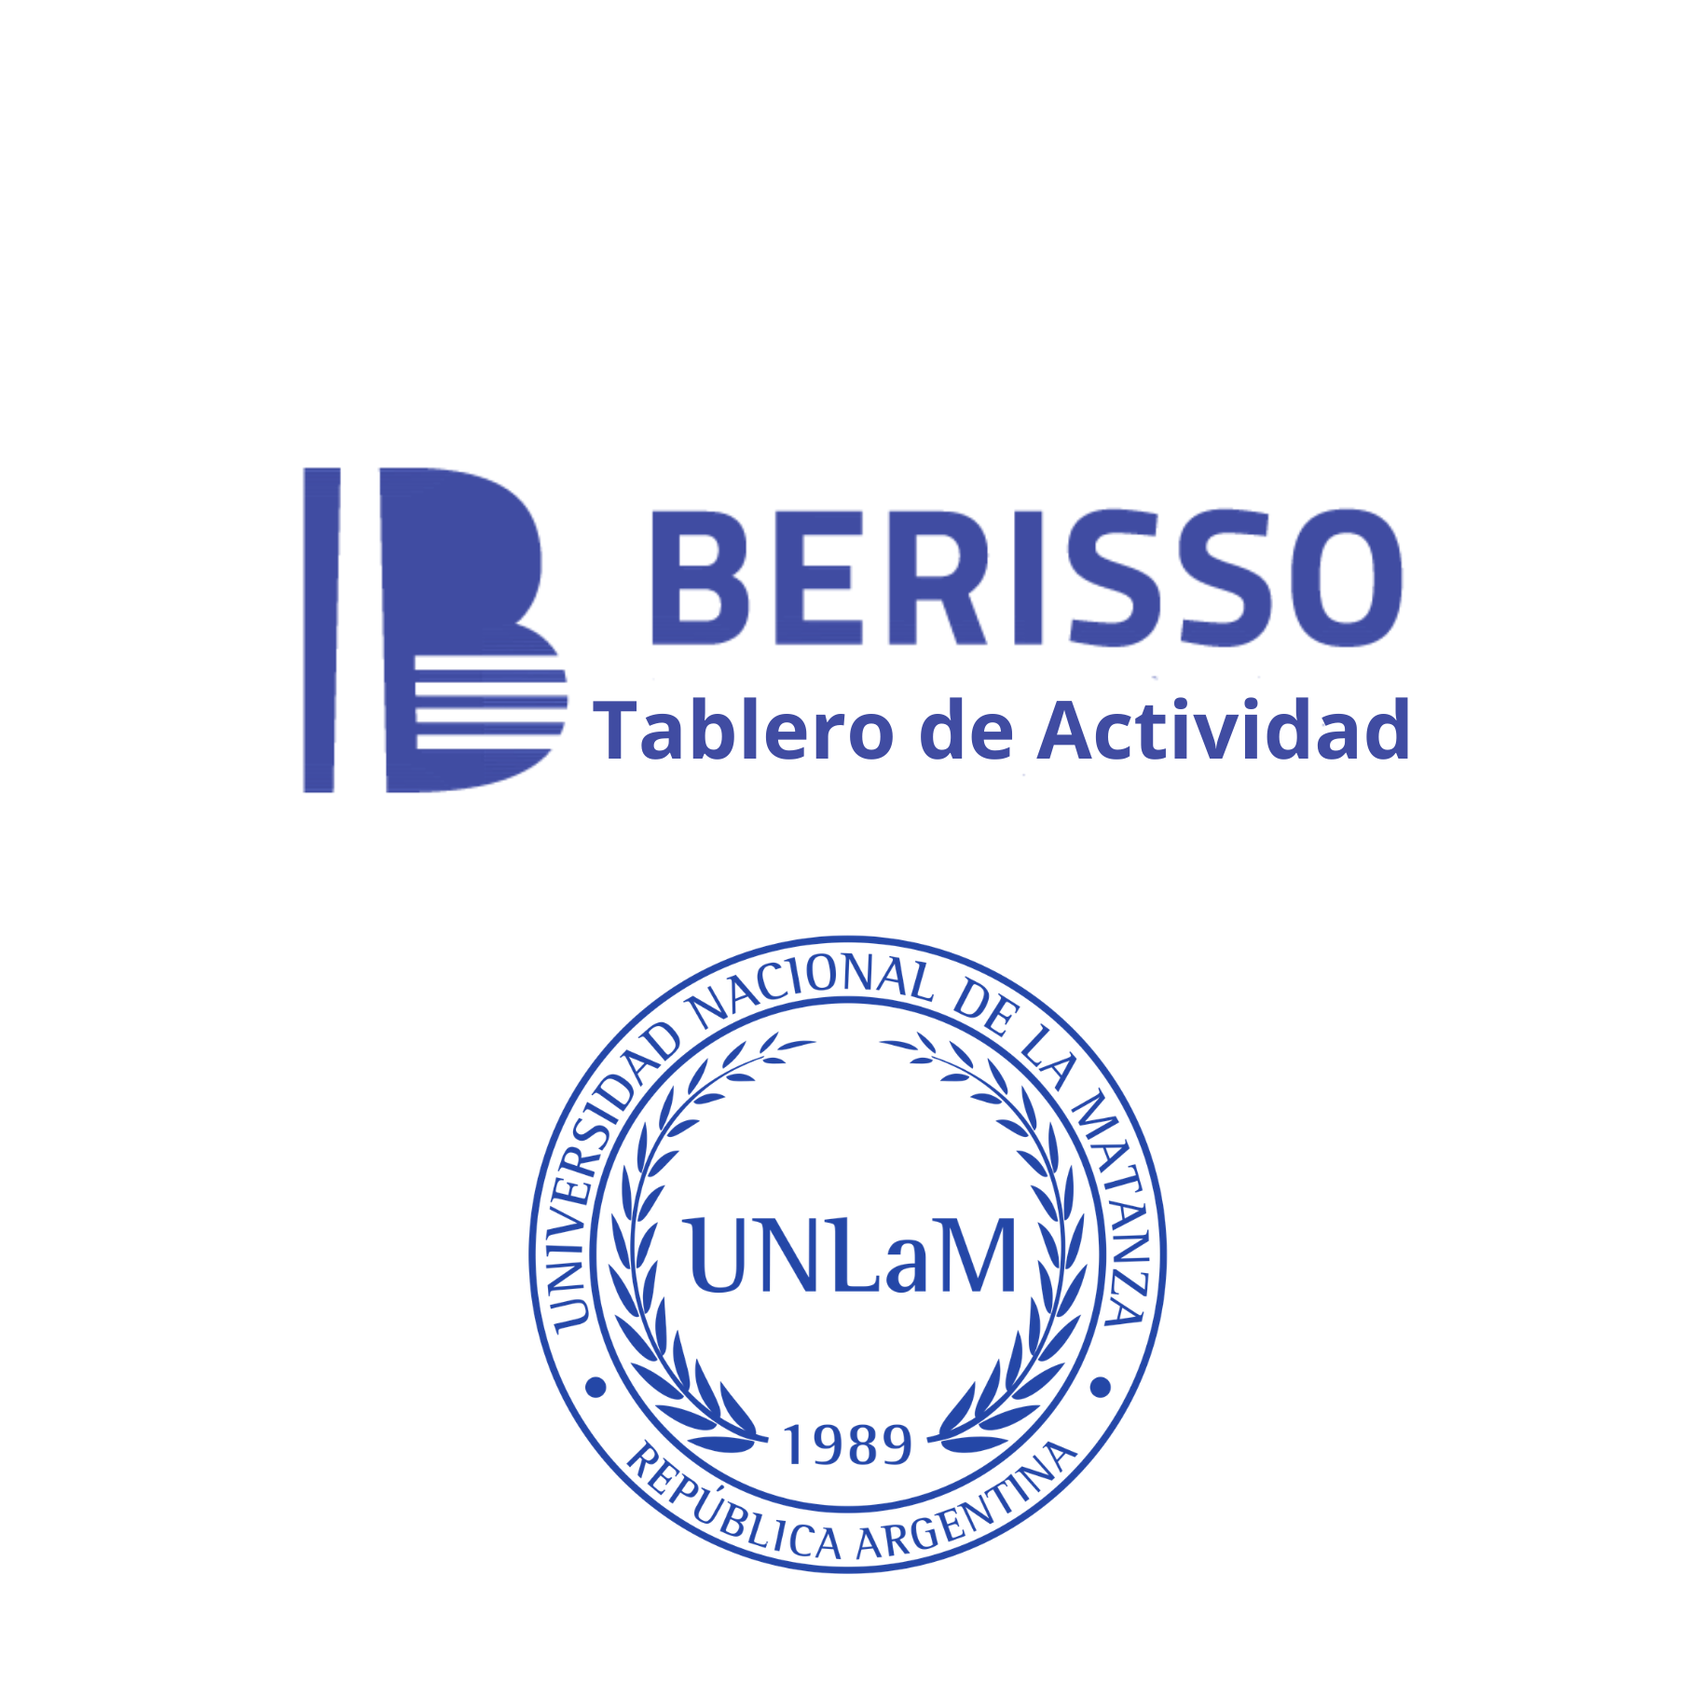
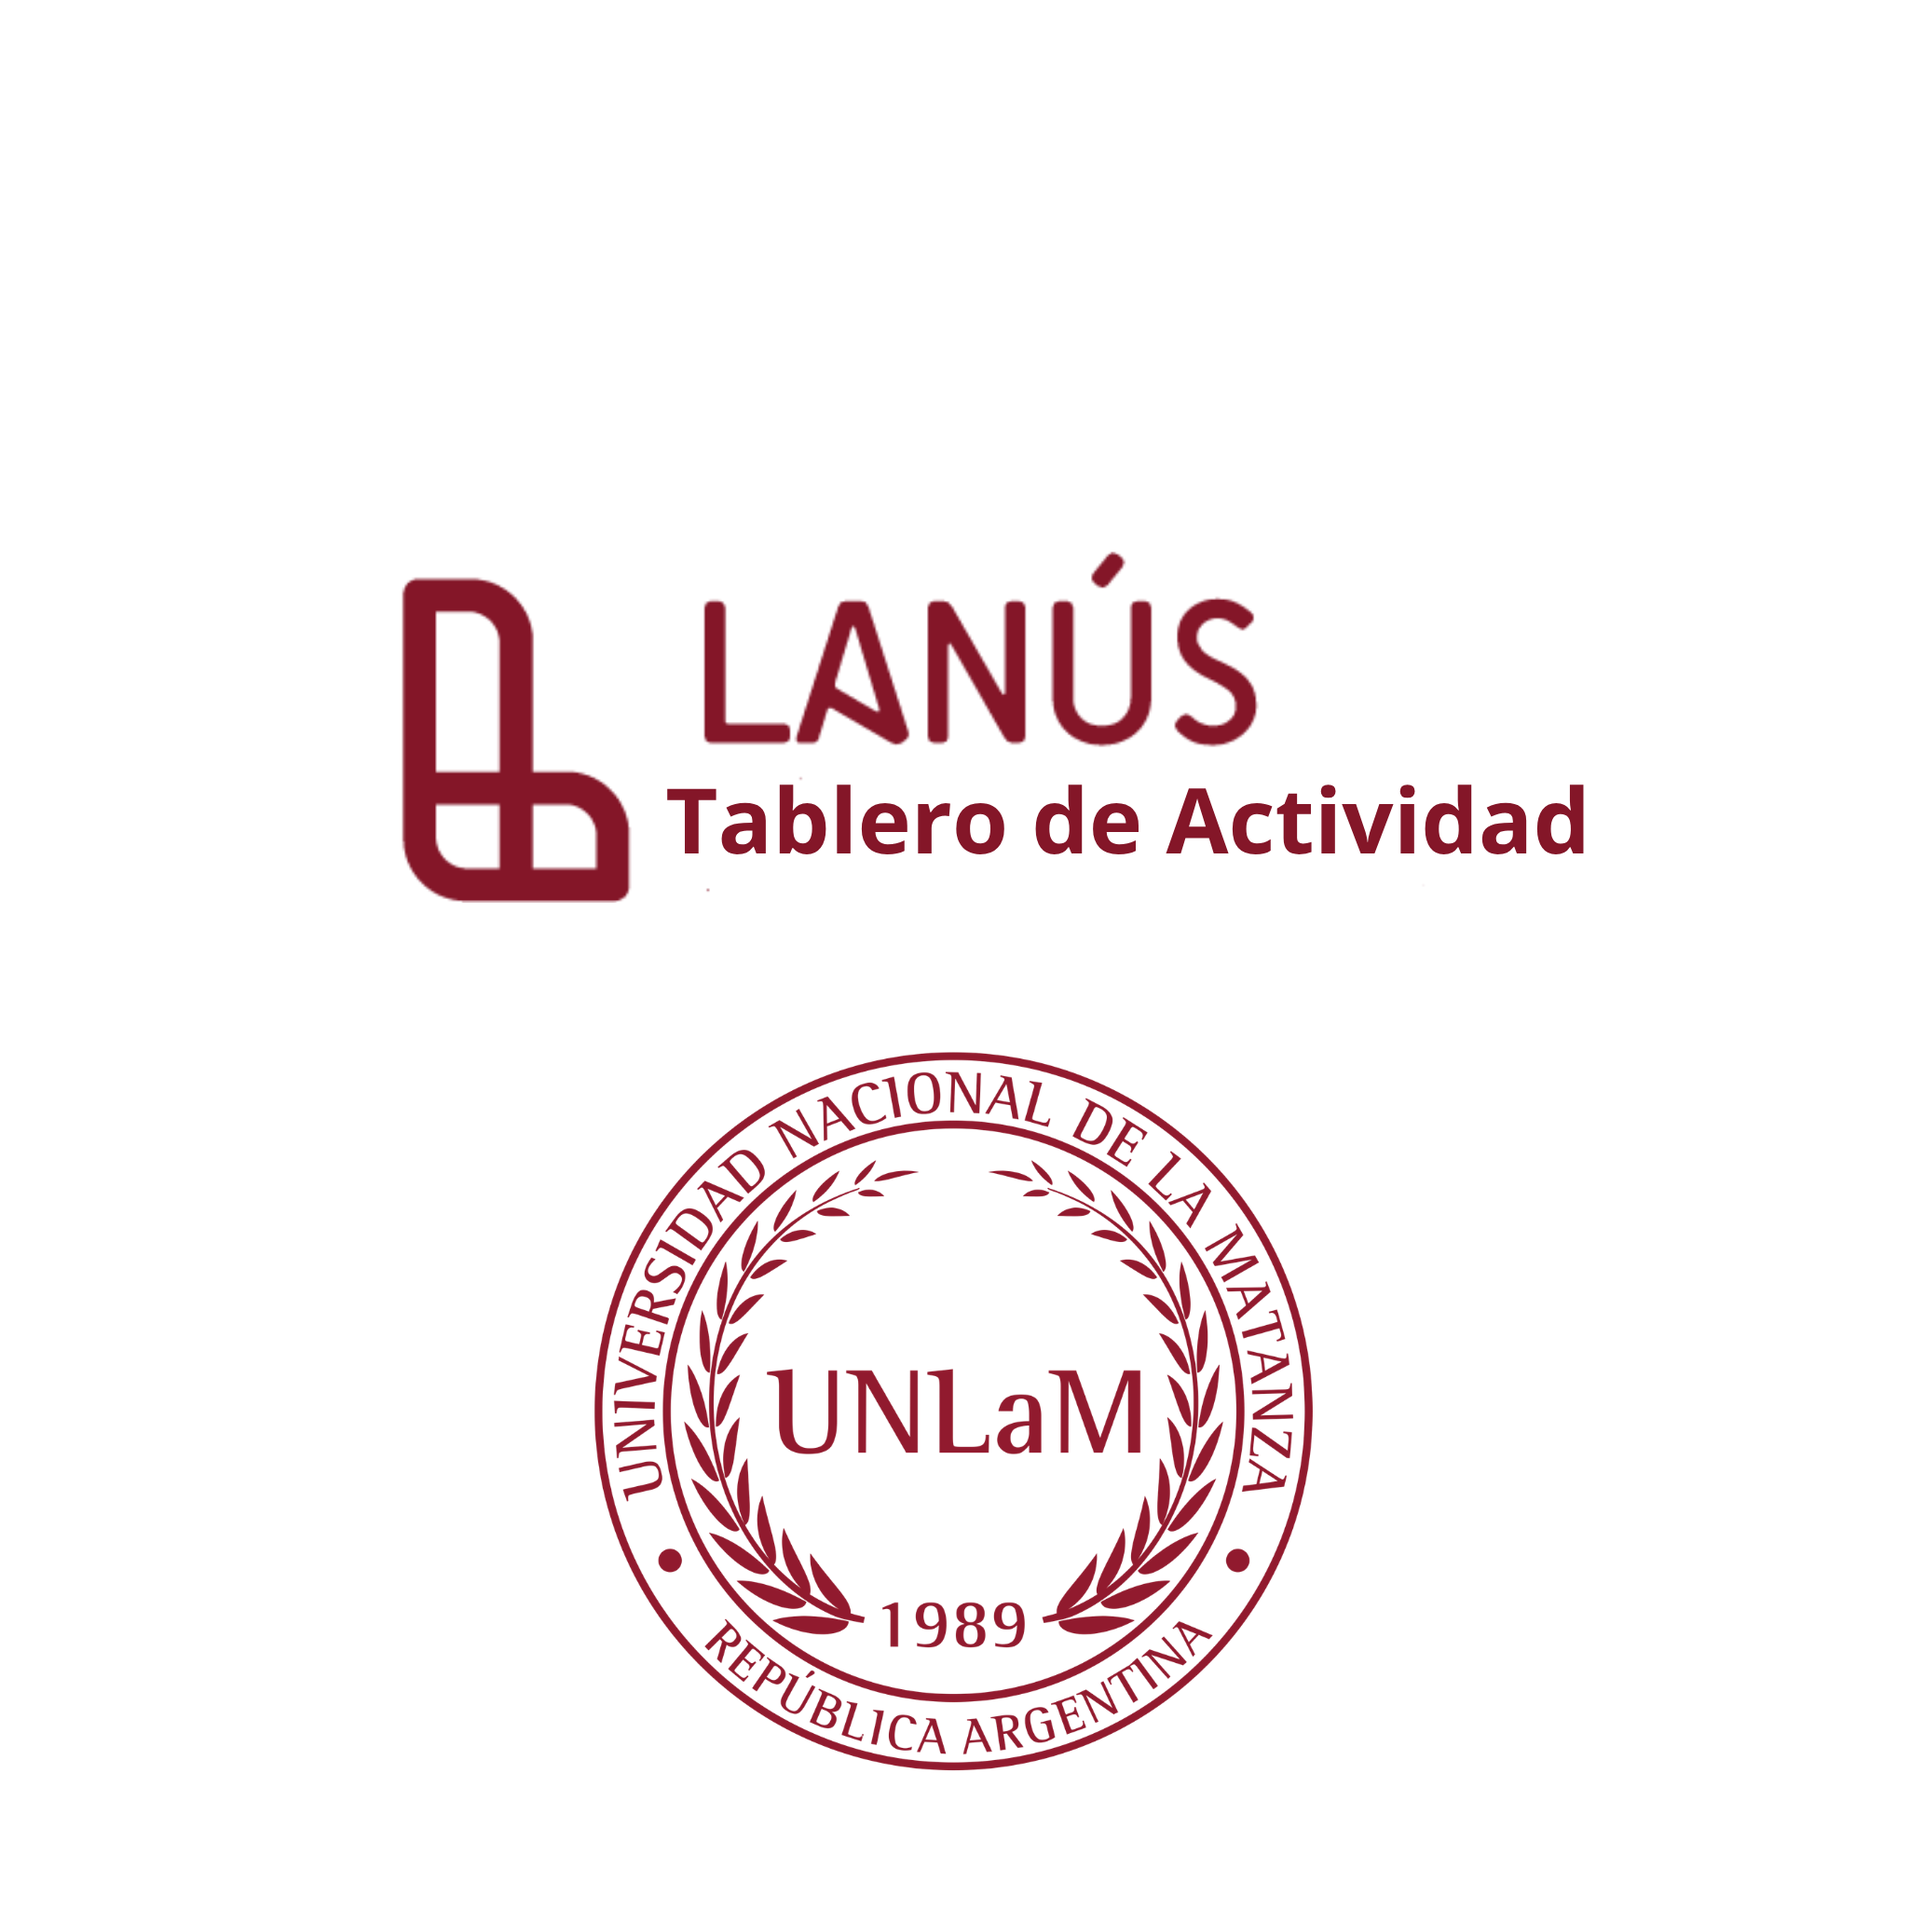
Add: Notifications view on notifications.py

Changed region(s): [[0.1537, 0.2766, 0.8299, 0.4918], [0.3074, 0.5532, 0.7069, 0.9528]]

diff --git a/Styles/estilo_login.css b/Styles/estilo_login.css
@@ -26,7 +26,7 @@
 }
 
 /*borde del form login*/
-.st-emotion-cache-1m6fbqn {
+.st-emotion-cache-1pppqcq {
     border: 1px solid rgb(0 0 0 / 0%);
     border-radius: 0.5rem;
     padding: calc(-1px + 1rem);

diff --git a/Displays/notifications.py b/Displays/notifications.py
@@ -1,0 +1,105 @@
+import streamlit as st
+from streamlit_extras.metric_cards import style_metric_cards
+from datetime import date
+import pandas as pd
+from ExtraFunctions.extras import payed_notifications
+from Plots.get_plot import daily_notifications_plot
+from Styles.estilos import aplicar_estilo_dashboard
+
+
+def mostrar_pagina_lotes(notifications_dataframe, payments_dataframe):
+    aplicar_estilo_dashboard()
+
+    # Asegurar formato datetime
+    notifications_dataframe["Fecha Lote"] = pd.to_datetime(
+        notifications_dataframe["Fecha Lote"],
+        errors="coerce"
+    )
+
+    # Obtener mes actual
+    hoy = date.today()
+
+    primer_dia_mes = hoy.replace(day=1)
+    ultimo_dia_disponible = (
+        notifications_dataframe["Fecha Lote"]
+        .max()
+        .date()
+    )
+
+    cola, colb, colc, cold = st.columns([1, 1, 11, 2])
+    with cold:
+        vista_elegida = st.selectbox(":material/view_kanban: **Vista**", options=["Indicadores", "Tablas"], index=0)
+    with cola:
+        fecha_desde = st.date_input(
+            ":material/calendar_month: **Fecha Desde**",
+            value=primer_dia_mes,
+            min_value=notifications_dataframe["Fecha Lote"].min().date(),
+            max_value=ultimo_dia_disponible,
+            format="DD/MM/YYYY"
+
+        )
+
+    with colb:
+        fecha_hasta = st.date_input(
+            ":material/calendar_month: **Fecha Hasta**",
+            value=min(hoy, ultimo_dia_disponible),
+            min_value=fecha_desde,
+            max_value=ultimo_dia_disponible,
+            format="DD/MM/YYYY"
+        )
+
+    lotes_filtrado = notifications_dataframe[
+        (
+                notifications_dataframe["Fecha Lote"].dt.date >= fecha_desde
+        )
+        &
+        (
+                notifications_dataframe["Fecha Lote"].dt.date <= fecha_hasta
+        )
+        ]
+    with colc:
+        localidad_elegida = st.multiselect(":material/location_on: **Elija una Localidad**",
+                                           options=lotes_filtrado["localidad"].unique(),
+                                           default="CABA")
+    lotes_filtrado = lotes_filtrado[
+        lotes_filtrado["localidad"].isin(localidad_elegida)] if localidad_elegida else lotes_filtrado
+
+    metrica_1, metrica_2, metrica_3, metrica_4 = st.columns(4)
+    metrica_1.metric(
+        f"**Total de Actas notificadas** del {fecha_desde.strftime("%d/%m/%Y")} al {fecha_hasta.strftime("%d/%m/%Y")}",
+        value=f":red[:material/stacked_email:] {lotes_filtrado["acta_id"].nunique()}", delta=f"{100}")
+    metrica_2.metric(f"**Por Email** del {fecha_desde.strftime("%d/%m/%Y")} al {fecha_hasta.strftime("%d/%m/%Y")}",
+                     value=f":red[:material/attach_email:] {1}",
+                     delta=f"{100}")
+    metrica_3.metric(f"**Bajo Puerta** del {fecha_desde.strftime("%d/%m/%Y")} al {fecha_hasta.strftime("%d/%m/%Y")}",
+                     value=f":red[:material/garage_door:] {0}",
+                     delta=f"{-100}")
+    metrica_4.metric(
+        f"**Total de Actas pagadas** del {fecha_desde.strftime("%d/%m/%Y")} al {fecha_hasta.strftime("%d/%m/%Y")}",
+        value=f":green[:material/paid:] {payed_notifications(lotes_filtrado, payments_dataframe)['acta_id'].nunique()}",
+        delta=f"{-100}")
+    if vista_elegida == "Indicadores":
+        # st.dataframe(payed_notifications(lotes_filtrado, payments_dataframe), hide_index=True)
+
+        columna_barplot, columna_donut = st.columns([2, 1])
+        with columna_donut:
+            container = st.container(border=True)
+            container.subheader("Donut diferentes Notificaciones (WIP)", anchor=False)
+
+        with columna_barplot:
+            container = st.container(border=True)
+            container.subheader("Cantidad de Actas notificadas por Localidad", anchor=False)
+            actas_por_localidad = lotes_filtrado.groupby("localidad")["acta_id"].nunique().reset_index()
+            actas_por_localidad.columns = ["Localidad", "Cantidad de Actas"]
+            container.plotly_chart(daily_notifications_plot(lotes_filtrado), width="stretch")
+    else:
+        columna_barplot, columna_donut = st.columns([2, 1])
+        with columna_donut:
+            container = st.container(border=True)
+            container.subheader("Listado de Actas notificadas en el período y localidad seleccionado/s", anchor=False)
+            container.dataframe(lotes_filtrado[["acta_id", "localidad", "Fecha Lote"]], hide_index=True,
+                                width="stretch")
+
+    style_metric_cards(background_color="white", border_left_color="#b30000", box_shadow=False,
+                       border_color="azure",
+                       border_radius_px=30)

diff --git a/Plots/get_plot.py b/Plots/get_plot.py
@@ -47,7 +47,7 @@ def notificated_by_location(dataframe):
     notificated_by_grouop = dataframe.groupby("localidad").agg({"lote_id": ["count"]}).reset_index()
     notificated_by_grouop.columns = ["Localidad", "Notificadas"]
     fig = px.pie(notificated_by_grouop.nlargest(5, "Notificadas"), names="Localidad", values="Notificadas",
-                 color_discrete_sequence=["#e60000","#bf4040","#ff0080","#751aff","#ffff1a"])
+                 color_discrete_sequence=["#e60000", "#bf4040", "#ff0080", "#751aff", "#ffff1a"])
     fig.update_layout(
         paper_bgcolor="white",
         plot_bgcolor="white",
@@ -83,7 +83,7 @@ def daily_payments_by_type(dataframe):
     # daily_payments_by_type_grouop["total"] = daily_payments_by_type_grouop["total"].map(lambda x:round(int(x)))
     fig = px.bar(daily_payments_by_type_grouop, x="Fecha", y="Actas Acreditadas",
                  color_discrete_sequence=["#b30000", "MidnightBlue", "Red"], text_auto=True,
-)
+                 )
     fig.update_layout(
 
         paper_bgcolor="white",
@@ -265,6 +265,8 @@ def ranking_pagos_plot(df):
     fig = px.pie(df, names="Medio Pago", values="total", color="Medio Pago",
                  color_discrete_sequence=px.colors.qualitative.Set2, hole=.5)
     fig.update_layout(
+        paper_bgcolor="white",
+        plot_bgcolor="white",
         font=dict(color='black'),
         xaxis=dict(
             title=dict(font=dict(color='black')),
@@ -287,4 +289,79 @@ def ranking_pagos_plot(df):
         textfont_size=16,
 
     )
+    return fig
+
+
+def daily_notifications_plot(df):
+    df["Fecha Lote"] = df["Fecha Lote"].dt.date
+    if df["localidad"].nunique() < 4:
+        agrupado = df.groupby(["Fecha Lote", "localidad"]).agg({"acta_id": ["count"]}).reset_index()
+        agrupado.columns = ["Fecha", "Localidad", "Notificaciones"]
+        agrupado["Notificaciones"] = agrupado["Notificaciones"].astype(int)
+        fig = px.bar(agrupado, x="Fecha", y="Notificaciones", text_auto=True, color="Localidad",
+                     color_discrete_sequence=["#b30000", "MidnightBlue", "yellow"])
+        fig.update_layout(
+            paper_bgcolor="white",
+            plot_bgcolor="white",
+            font=dict(color='black'),
+            xaxis=dict(
+                title=dict(font=dict(color='black')),
+                tickfont=dict(color='black'),
+            ),
+            yaxis=dict(
+                title=dict(font=dict(color='black'), ),
+                tickfont=dict(color='black'),
+            ),
+            barcornerradius=8,
+            height=435,
+
+        )
+        fig.update_traces(textposition='inside', textfont_size=14)
+    else:
+        agrupado = df.groupby(["Fecha Lote", "localidad"]).agg({"acta_id": ["count"]}).reset_index()
+        agrupado.columns = ["Fecha", "Localidad", "Notificaciones"]
+        agrupado = agrupado.pivot_table(index="Fecha", columns="Localidad", values="Notificaciones").T
+        data_pivot = agrupado.sort_index(ascending=False)
+
+        z_raw = data_pivot.values
+        z = np.where(np.isnan(z_raw), -1, z_raw)  # NaNs se marcan con -1 para identificar visualmente
+
+        text = np.where(np.isnan(z_raw), "", np.round(z_raw, 0).astype(int).astype(str))
+
+        x = data_pivot.columns.astype(str)
+        y = data_pivot.index.astype(str)
+
+        fig = go.Figure(data=go.Heatmap(
+            z=z,
+            x=x,
+            y=y,
+            colorscale=px.colors.sequential.Reds,
+            text=text,
+            texttemplate="%{text}",
+            hovertemplate="Fecha: %{x}<br>Localidad: %{y}<br>Notificaciones: %{z}<extra></extra>",
+            xgap=0.5,
+            ygap=0.5,
+            colorbar=dict(
+                title=dict(text="Actas Notificadas", font=dict(color="black")),
+                tickfont=dict(color="black")
+            )
+        ))
+
+        fig.update_layout(
+            xaxis_title="Fecha",
+            yaxis_title="Localidad",
+            xaxis_tickangle=-45,
+            xaxis=dict(
+                type="category",
+                tickfont=dict(color="black"),
+            ),
+            yaxis=dict(
+                type="category",
+                tickfont=dict(color="black"),
+            ),
+            paper_bgcolor="rgba(0,0,0,0)",
+            plot_bgcolor="rgba(0,0,0,0)",
+            margin=dict(l=20, r=20, t=60, b=20),
+        )
+        fig.update_traces(textfont=dict(size=13))
     return fig

diff --git a/login.py b/login.py
@@ -7,7 +7,7 @@ import format
 import interaction
 from Styles.estilos import aplicar_estilo_login
 
-st.set_page_config(page_title="BerissoUNLaM", layout="wide")
+st.set_page_config(page_title="LanusUNLaM", layout="wide",page_icon="Icons/Diseño sin título (2).png")
 
 def mostrar_vista_admin(rol):
     interaction.interaction(rol)
@@ -37,7 +37,7 @@ if st.session_state['authentication_status'] is None:
                                                    'Username': ':material/contacts_product: **Usuario**',
                                                    'Password': '**:material/key_vertical: Contraseña**',
                                                    'Login': ':material/login: :red[**Ingresar al Panel**]'})
-    # st.sidebar.image("Icons/Algo Algo Algo (2).png", width=300)
+    st.sidebar.image("Icons/Algo Algo Algo (2).png", width=300)
 
     if login_result:
         name, authentication_status, username = login_result
@@ -50,7 +50,7 @@ if st.session_state['authentication_status'] is None:
         role = current_user.get('role', '')
         format.registrar_historial_acceso(st.session_state['name'], st.session_state['username'], role)
 if st.session_state['authentication_status']:
-    # authenticator.logout(':blue[Cerrar sesión]', location='sidebar')
+    authenticator.logout(':blue[Cerrar sesión]', location='sidebar')
     current_user = config['credentials']['usernames'][st.session_state['username']]
     role = current_user.get('role', '')
     st.sidebar.success(f"Usuario: **{st.session_state['name']}**", icon=":material/person:")
@@ -64,7 +64,7 @@ if st.session_state['authentication_status']:
     if st.session_state['pagina'] == 'dashboard':
         mostrar_vista_admin(role)
 
-    # st.sidebar.image("Icons/Algo Algo Algo (2).png", width=300)
+    st.sidebar.image("Icons/Algo Algo Algo (2).png", width=300)
 if st.session_state['authentication_status'] is False:
     col1, col2, col3 = st.columns([2, 1, 2])
     with col2:

diff --git a/interaction.py b/interaction.py
@@ -3,11 +3,12 @@ from streamlit_extras.metric_cards import style_metric_cards
 
 from Displays.camera_activity import show_camera_activity
 from Displays.general_overview import show_general_overview
+from Displays.notifications import mostrar_pagina_lotes
 from Displays.payments import show_payments
 from FileGetters.file_getter import *
 
 def interaction(rol):
-    st.set_page_config(page_title="BerissoUNLaM", page_icon="Icons/page_icon.png", layout="wide",
+    st.set_page_config(page_title="LanusUNLaM", page_icon="Icons/Diseño sin título (2).png", layout="wide",
                        initial_sidebar_state='expanded')
     #
     # from displays.juzgados import mostrar_pagina_juzgados
@@ -57,11 +58,11 @@ def interaction(rol):
             st.rerun()
         show_payments(get_actas_pagadas_dataframe())
 
-    # elif st.session_state.pagina_actual == "lotes":
-    #     if st.button("Volver a la pantalla general", type="primary", icon=":material/keyboard_return:"):
-    #         st.session_state.pagina_actual = "inicio"
-    #         st.rerun()
-    #     mostrar_pagina_lotes()
+    elif st.session_state.pagina_actual == "lotes":
+        if st.button("Volver a la pantalla general", type="primary", icon=":material/keyboard_return:"):
+            st.session_state.pagina_actual = "inicio"
+            st.rerun()
+        mostrar_pagina_lotes(get_notificaciones_dataframe(),get_actas_pagadas_dataframe())
     #
     # elif st.session_state.pagina_actual == "juzgados":
     #     if st.button("Volver a la pantalla general", type="primary", icon=":material/keyboard_return:"):

diff --git a/ExtraFunctions/extras.py b/ExtraFunctions/extras.py
@@ -179,3 +179,8 @@ def to_excel_reporte(df):
 #         if st.sidebar.button("Cerrar sesión"):
 #             st.session_state["user"] = None
 #             st.experimental_rerun()
+
+def payed_notifications(notifcations_dataframe, payments_dataframe):
+    payments_dataframe = payments_dataframe.rename(columns={"numero": "acta"})
+    merged = pd.merge(notifcations_dataframe, payments_dataframe, on="acta")
+    return merged.drop_duplicates(subset="acta", keep="first")

diff --git a/ExtraFunctions/file_parser.py b/ExtraFunctions/file_parser.py
@@ -43,6 +43,10 @@ def clean_notifications_data(dataframe):
     dataframe["Mes"] = dataframe["Mes"].map(traducir_mes)
     dataframe["Tipo infraccion"] = dataframe["acta"].map(lambda x: x.split("-")[0]).map(get_tipos_notificaciones())
     dataframe["localidad"] = dataframe["localidad"].apply(normalizar_localidad)
+    dataframe["Mes_num"] = pd.to_datetime(
+        dataframe["Fecha Lote"]
+    ).dt.month
+
     return dataframe
 
 

diff --git a/FileGetters/file_getter.py b/FileGetters/file_getter.py
@@ -39,7 +39,7 @@ def get_ranking_medios_de_pago(df):
         df = clean_medios_de_pago(df)
         df = df.groupby("medio_pago").agg({"total":["sum"]}).reset_index()
         df.columns = ["Medio Pago", "total"]
-        return df
+        return df.nlargest(5, "total")
     except FileNotFoundError:
         return pd.DataFrame()
 
